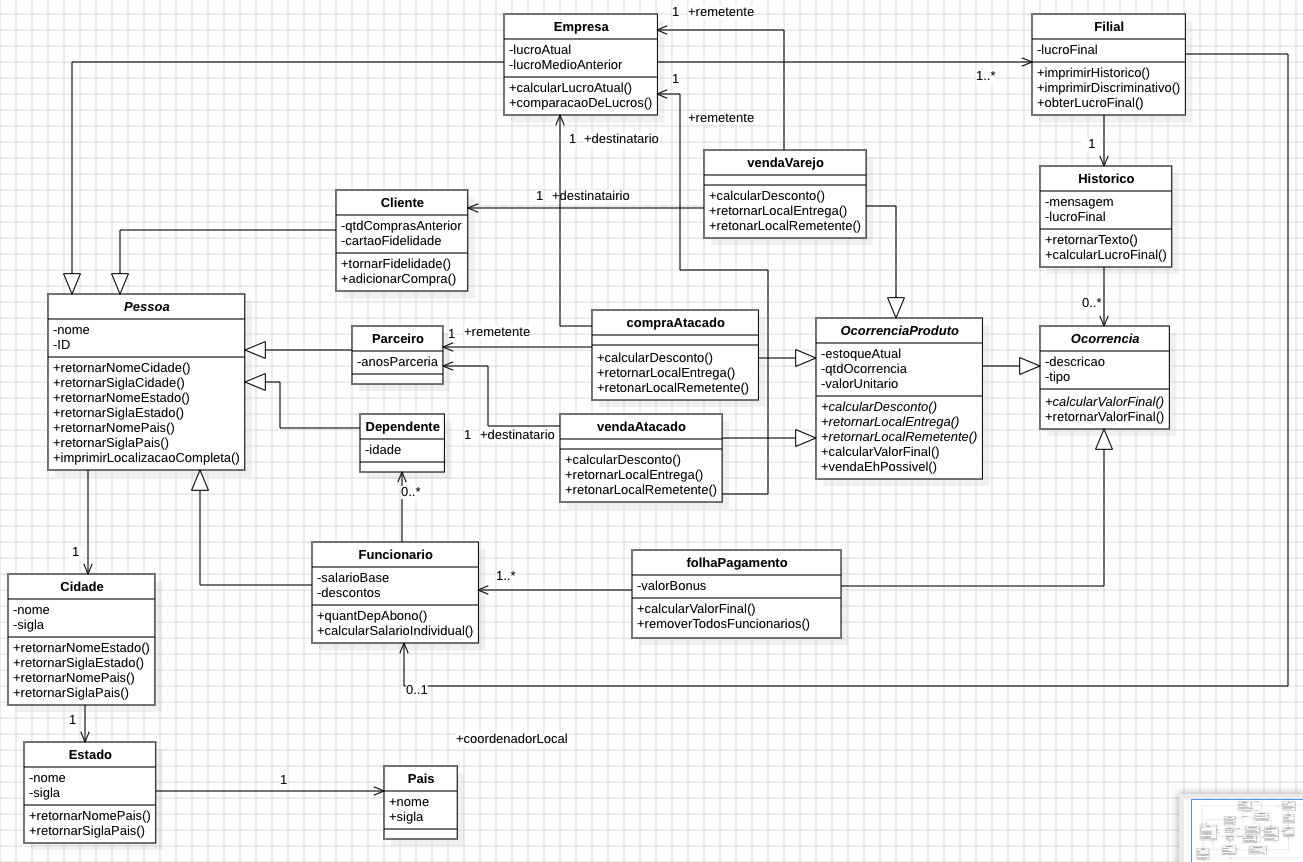
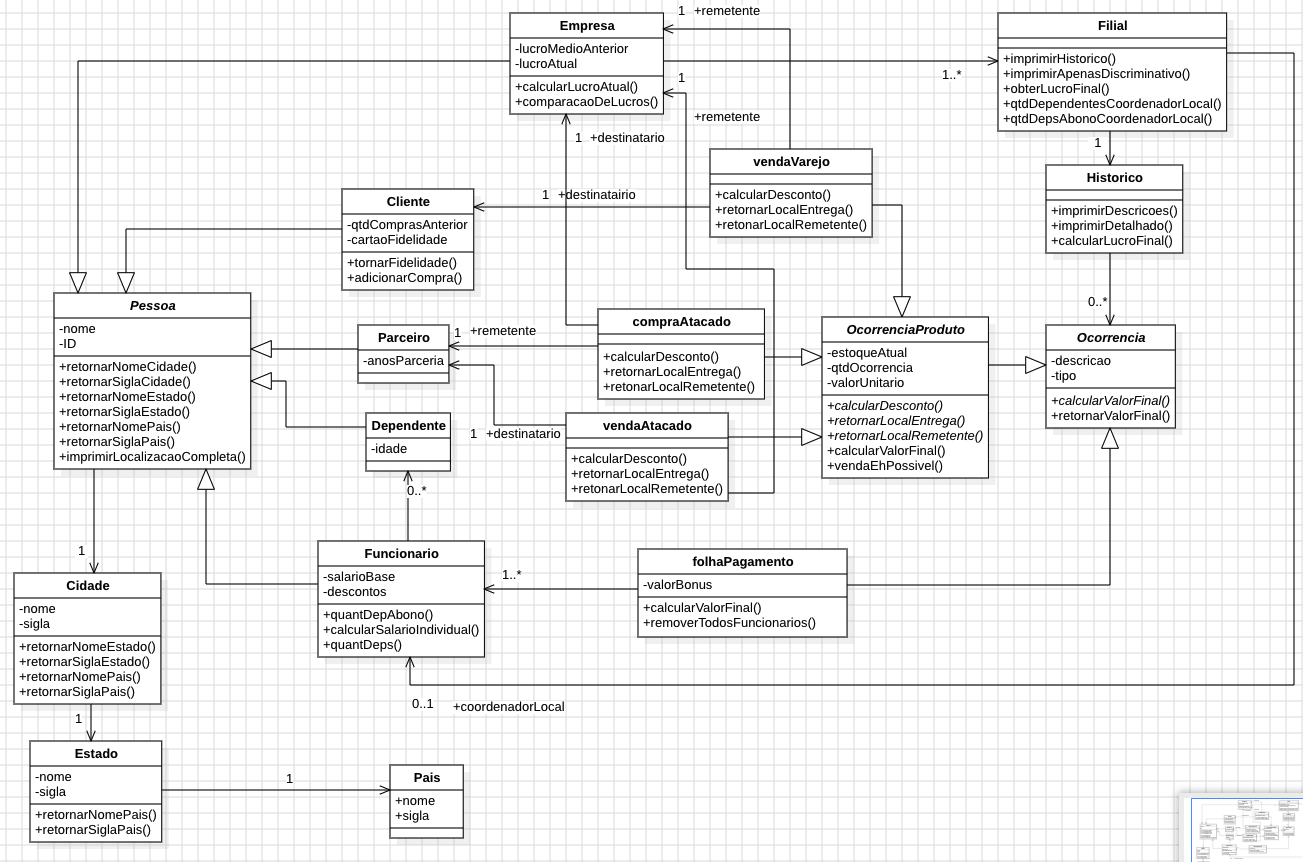
atualizacao (tomara que final) documentacao

diff --git a/README.md b/README.md
@@ -31,9 +31,10 @@ Uma empresa busca controlar seus lucros de maneira digital. Para isso, ela anali
 * OBS calcularValorFinal() na folha de pagamento usa calcularSalarioIndividual()
 
 ### Classe Filial
-- imprimirHistorico usa retornarTexto, função do Historico que imprime as descrições da ocorrência no modelo “Prejuízo/Lucro de R$**,** - ”” Incluindo descrição e separador (hífen) apenas caso haja descrição
-- imprimirDiscriminativo apenas usa retornarTexto para imprimir as descrições
+- imprimirHistorico usa imprimirDetalhado, função do Historico que imprime as descrições da ocorrência no modelo “Prejuízo/Lucro de R$**,** - ”” Incluindo descrição e separador (hífen) apenas caso haja descrição
+- imprimirApenasDiscriminativo apenas usa retornarTexto para imprimir as descrições
 - obterLucroFinal deve calcular o Lucro da filial a partir de seu histórico
+
 
 ### Classe Empresa
 - calcularLucroAtual deve calcular o lucro de todas as filiais e salvar em lucroAtual
